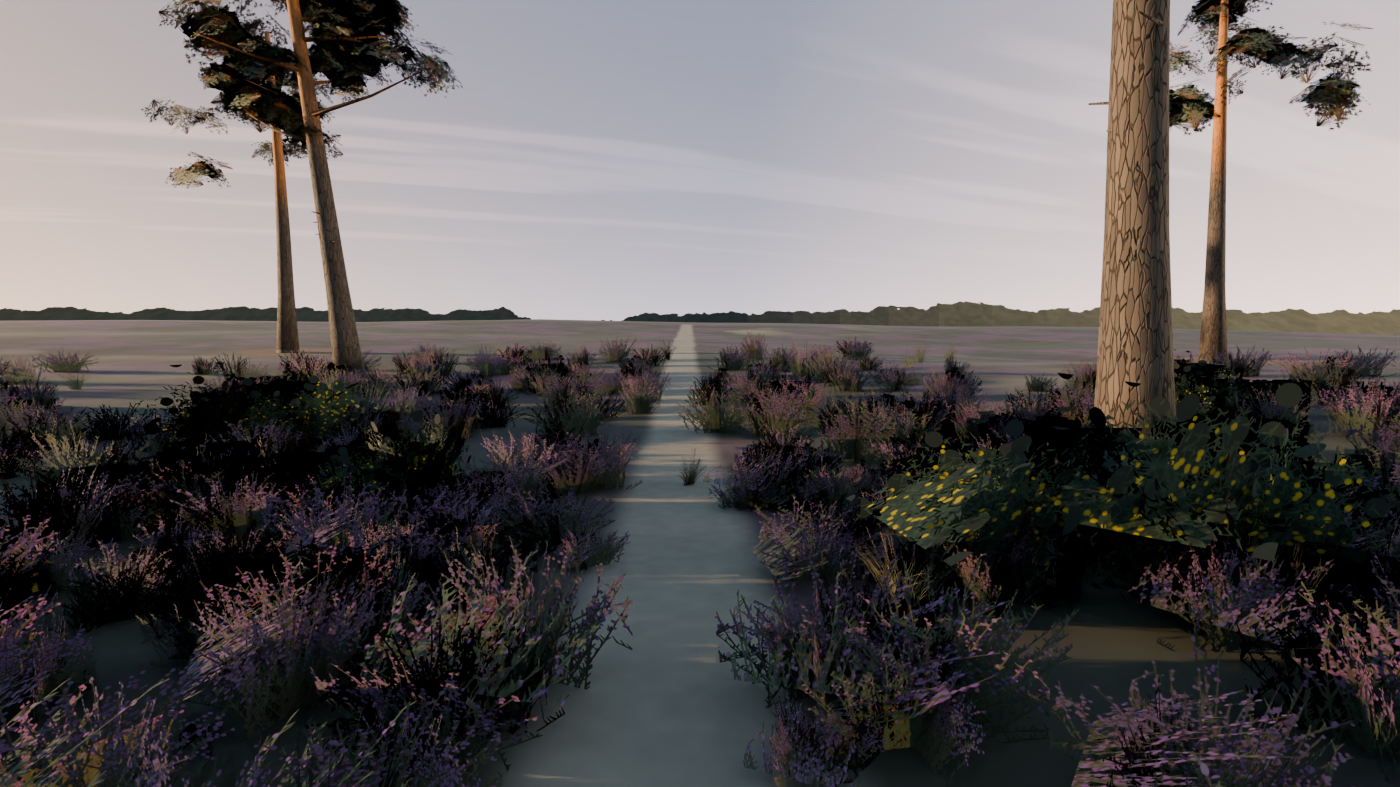
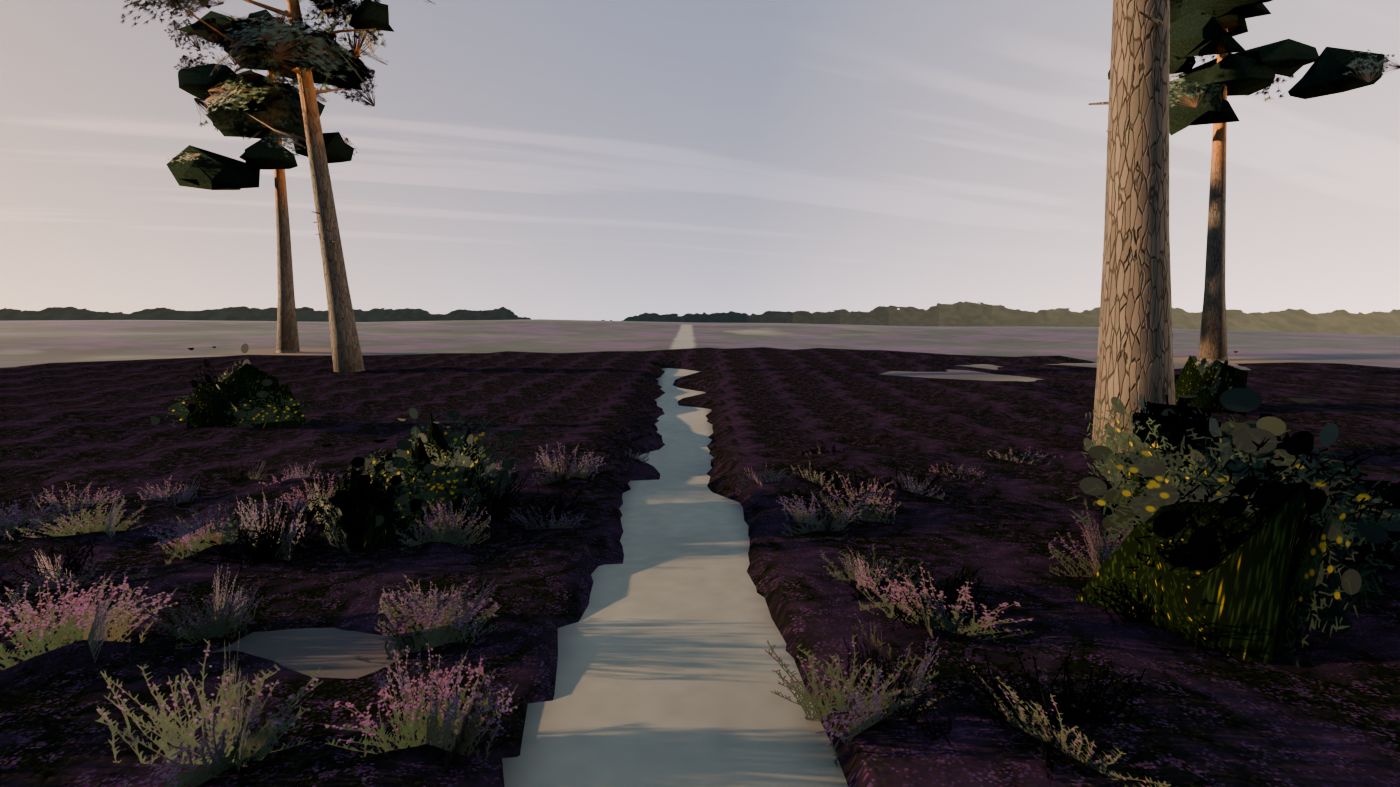
Put Horsell sand pits on a foliage diet for the Quest: opaque heath canopy and pine masses, fewer alpha cards
Heather and grass cards only within ~10 m (nothing tall right ahead of the feet), rising out of an opaque lumpy
heather canopy (MESH_HeathMound) that carries the heath out to 36 m; pine crowns get opaque needle masses
(veg.crown.pinemass, sway weights) with fewer, larger cards; gorse gets opaque cores (MESH_GorseMound); fewer
bracken clumps. Alpha card faces 13692 -> 3946; reader-view alpha card area 6.76 -> 2.09 screens, surround
22.1 -> 7.1. Export 48.5k -> 50.2k triangles.

diff --git a/blender/build_horsell_sandpits.py b/blender/build_horsell_sandpits.py
@@ -20,7 +20,11 @@ heather smoulders and a thin blue thread of smoke rises against the dawn. Behind
 across the common past an old pine and a few gorse bushes. No people (Ogilvy, the crowd and the carts are left out).
 
 Everything is procedural (no downloaded models, textures or HDRIs). Foliage is alpha-clipped cards painted in numpy
-(pine-needle sprays, ling heather in bloom, heath grass, gorse, bracken) with soft custom normals; the ground and sky
+(pine-needle sprays, ling heather in bloom, heath grass, gorse, bracken) with soft custom normals, kept lean for the
+Quest's tile GPU (alpha-tested overdraw is the cost): heather and grass cards only within ~10 m of the reader (and
+nothing tall in the first metres ahead), rising out of an opaque lumpy heather canopy that carries the heath out to
+36 m; pine crowns are opaque lumpy needle masses with fewer, larger cards round them (far pines: masses only, a few
+cards); gorse bushes have opaque cores; the ground and sky
 are painted in numpy into their own UV layouts (the ground in log-polar UVs, texel density highest at the reader's
 feet); the cylinder, bark and splintered wood are node materials baked to textures. Static meshes merge by material;
 glTF export with lights for Unity (helpers in wotw_kit.py).
@@ -35,6 +39,8 @@ Node names Unity relies on:
   Living scenes (docs/LIVING_SCENES.md), vertex colour R = sway weight (0 at roots/trunk, 1 at tips):
     veg.crown.pines (the pine crowns), veg.shrub.heather, veg.shrub.gorse, veg.grass.heath, veg.leaves.bracken
     sound.birds.0 / sound.birds.1 (in the pines ahead and behind), sound.wind-trees.0 (the pine group on the right)
+  veg.crown.pinemass: the opaque crown masses (sway weights like the crown cards)
+  MESH_HeathMound (the opaque heather canopy), MESH_GorseMound (gorse cores): static, opaque
   MESH_Mist: two soft alpha-blended mist sheets (in the pit and the hollow); no shadows, not lightmapped.
 
 Axes: metres, Blender +Z up, +Y north, +X east. Reader at the origin.
@@ -168,6 +174,8 @@ def ground_colour(x, y, fp):
     sand_new = sand_new * (1 - 0.35 * grit[..., None])
     gl = sstep(0.55, 0.8, fbm(x / 6 + 4, y / 6 + 1, 3, seed=26)) * (1 - hd)
     hv = sstep(0.1, 0.45, hd)
+    farh = sstep(8.0, 12.0, np.hypot(x, y))[..., None]                    # beyond the cards: the paint carries the heath
+    heath = heath * (1 - 0.3 * farh) + farh * 0.3 * np.stack([0.045 + 0.06 * bloom, 0.035 + 0.0 * bloom, 0.03 + 0.05 * bloom], -1) * (0.6 + 0.8 * n2[..., None])
     col = litter * (1 - hv[..., None]) + heath * hv[..., None]
     col = col * (1 - gl[..., None] * 0.7) + grass * (gl[..., None] * 0.7)
     bare = sstep(0.66, 0.78, fbm(x / 5 + 2, y / 5 + 8, 3, seed=27)) * (1 - hd) * 0.6
@@ -356,6 +364,75 @@ def bracken_atlas(N=512, seed=11):
 def atlas_uv(vi, inset=0.004):
     u0, v0 = (vi % 2) * 0.5, (vi // 2) * 0.5
     return (u0 + inset, v0 + inset, u0 + 0.5 - inset, v0 + 0.5 - inset)
+
+# ----------------------------------------------------------------------------- opaque foliage-mass textures (tileable, numpy)
+def _wrap_dot(img, p, r, col, alpha=1.0):
+    N = img.shape[0]
+    for ox in (-N, 0, N):
+        for oy in (-N, 0, N):
+            x, y = p[0] + ox, p[1] + oy
+            if -r - 2 < x < N + r + 2 and -r - 2 < y < N + r + 2: paint_dot(img, (x, y), r, col, alpha)
+
+def heath_mound_tex(N=512, seed=15):
+    """Ling seen from above and at a slant, as the low heather mounds beyond the cards read: dark shoots, brown wood,
+    and drifts of purple bloom; tiles (dots wrap round the edges)."""
+    rs = random.Random(seed); img = np.zeros((N, N, 4), np.float32); img[...] = (0.030, 0.034, 0.020, 1.0)
+    for k in range(2600):
+        g = rs.random(); o = rs.random()
+        _wrap_dot(img, (rs.uniform(0, N), rs.uniform(0, N)), rs.uniform(1.6, 3.6),
+                  (0.05 + 0.04 * o + 0.02 * g, 0.07 + 0.04 * g - 0.02 * o, 0.03 + 0.012 * g))
+    for k in range(900):
+        _wrap_dot(img, (rs.uniform(0, N), rs.uniform(0, N)), rs.uniform(1.0, 1.8), (0.10, 0.065, 0.042))
+    for k in range(700):                                                  # holes into the canopy's shade
+        _wrap_dot(img, (rs.uniform(0, N), rs.uniform(0, N)), rs.uniform(1.5, 3.5), (0.01, 0.01, 0.008))
+    img[..., :3] *= 0.3                                                   # a canopy full of its own shadow
+    for k in range(30):                                                   # drifts of bloom, readable from 10-30 m
+        cx, cy = rs.uniform(0, N), rs.uniform(0, N)
+        for i in range(8):
+            _wrap_dot(img, (cx + rs.gauss(0, 30), cy + rs.gauss(0, 30)), rs.uniform(18, 34), (0.05, 0.026, 0.045), 0.16)
+    for k in range(240):
+        cx, cy = rs.uniform(0, N), rs.uniform(0, N); b = rs.uniform(0.5, 0.9)
+        for i in range(rs.randint(6, 16)):
+            c = (0.11 * b + rs.uniform(-0.02, 0.02), 0.05 * b + rs.uniform(-0.01, 0.01), 0.10 * b + rs.uniform(-0.02, 0.02))
+            _wrap_dot(img, (cx + rs.gauss(0, 8), cy + rs.gauss(0, 8)), rs.uniform(1.4, 2.6), c)
+    img[..., 3] = 1.0
+    return img
+
+def gorse_mound_tex(N=256, seed=17):
+    """The dark inside of a gorse bush: spines in shade, a few flowers."""
+    rs = random.Random(seed); img = np.zeros((N, N, 4), np.float32); img[...] = (0.016, 0.026, 0.010, 1.0)
+    for k in range(2200):
+        g = rs.random()
+        _wrap_dot(img, (rs.uniform(0, N), rs.uniform(0, N)), rs.uniform(0.8, 1.8), (0.03 + 0.03 * g, 0.06 + 0.05 * g, 0.02 + 0.015 * g))
+    for k in range(110):
+        _wrap_dot(img, (rs.uniform(0, N), rs.uniform(0, N)), rs.uniform(1.0, 1.8), (0.62, 0.42, 0.02))
+    img[..., :3] *= 0.4
+    img[..., 3] = 1.0
+    return img
+
+def pinemass_tex(atlas, N=512, seed=19):
+    """The inside of a Scots-pine crown as the opaque masses carry it: a dense mat of blue-green needle tufts (stars of
+    short strokes in the needle cards' own colours) over deep shadow; tiles (strokes wrap round the edges)."""
+    rs = random.Random(seed); img = np.zeros((N, N, 4), np.float32)
+    solid = atlas[..., 3] > 0.6
+    cols = atlas[solid][:, :3]; lum = cols.sum(1)
+    greens = cols[(cols[:, 1] >= cols[:, 0]) & (lum > np.percentile(lum, 30))]          # needles, not the orange twigs
+    base = greens.mean(0) * 0.30
+    img[...] = (base[0], base[1], base[2], 1.0)
+    def stroke(p0, p1, w0, w1, c):
+        for ox in (-N, 0, N):
+            for oy in (-N, 0, N):
+                if -20 < p0[0] + ox < N + 20 and -20 < p0[1] + oy < N + 20:
+                    paint_stroke(img, (p0[0] + ox, p0[1] + oy), (p1[0] + ox, p1[1] + oy), w0, w1, c)
+    for k in range(1500):
+        cx, cy = rs.uniform(0, N), rs.uniform(0, N)
+        c = greens[rs.randrange(len(greens))] * rs.uniform(0.45, 1.0)
+        for i in range(rs.randint(6, 11)):
+            a = rs.uniform(0, TWO_PI); L = rs.uniform(5, 11)
+            stroke((cx, cy), (cx + math.cos(a) * L, cy + math.sin(a) * L), 1.6, 0.8, c)
+    img[..., :3] *= 0.6                                                   # the crown's inside is in its own shade
+    img[..., 3] = 1.0
+    return img
 
 def treeline_strip(W=4096, Hh=256, seed=13):
     """Distant woods all round the common (one band, wrapping once round the horizon, so it is seamless): a hazed
@@ -649,8 +726,17 @@ M_SPLIT = splinter_mat()
 
 # ----------------------------------------------------------------------------- foliage materials (numpy atlases)
 print("painting foliage ...")
-M_NEEDLES = K.card_material("M_PineNeedles", K.image_from("T_PineNeedles", needle_atlas()), rough=0.8)
+NEEDLE_RGBA = needle_atlas()
+M_NEEDLES = K.card_material("M_PineNeedles", K.image_from("T_PineNeedles", NEEDLE_RGBA), rough=0.8)
 M_HEATHER = K.card_material("M_Heather", K.image_from("T_Heather", heather_atlas()), rough=0.85)
+# opaque stand-ins (the foliage diet for the Quest: alpha-tested overdraw is what costs on its tile GPU):
+# lumpy pine-crown masses inside thinner card crowns, and low heather / gorse mounds where the cards stop
+M_PINEMASS = K.card_material("M_PineMass", K.image_from("T_PineMass", pinemass_tex(NEEDLE_RGBA)), rough=0.85, clip=False, double=False, repeat=True)
+M_HEATHMOUND = K.card_material("M_HeathMound", K.image_from("T_HeathMound", heath_mound_tex()), rough=0.9, clip=False, double=False, repeat=True)
+M_GORSEMOUND = K.card_material("M_GorseMound", K.image_from("T_GorseMound", gorse_mound_tex()), rough=0.85, clip=False, double=False, repeat=True)
+for _m in (M_PINEMASS, M_HEATHMOUND, M_GORSEMOUND):        # a mat of needles or shoots has no glossy skin (no grazing sheen
+    _b = next(n for n in _m.node_tree.nodes if n.type == 'BSDF_PRINCIPLED')   # toward the low sun)
+    _b.inputs["Specular IOR Level"].default_value = 0.0; _b.inputs["Roughness"].default_value = 1.0
 M_GRASS = K.card_material("M_HeathGrass", K.image_from("T_HeathGrass", grass_atlas()), rough=0.85)
 M_GORSE = K.card_material("M_Gorse", K.image_from("T_Gorse", gorse_atlas()), rough=0.8)
 M_BRACKEN = K.card_material("M_Bracken", K.image_from("T_Bracken", bracken_atlas()), rough=0.8)
@@ -690,6 +776,54 @@ class BarkMesh:
         return o
 BARK = BarkMesh()
 CROWNS = CardMesh("veg.crown.pines")
+
+class MassMesh(CardMesh):
+    """Opaque lumpy masses with shared vertices, custom (soft) normals, sway weights and tiled UVs: the crown masses
+    inside the pines' card crowns and the low heather / gorse mounds."""
+    def vert(self, p, n, w):
+        self.normals.append(Vector(n).normalized()); self.weights.append(w)
+        return self.bm.verts.new(p)
+    def face(self, vs, uvs):
+        try: f = self.bm.faces.new(vs)
+        except ValueError: return None
+        for lp, uv in zip(f.loops, uvs): lp[self.uvl].uv = uv
+        f.smooth = True
+        return f
+
+PINEMASS = MassMesh("veg.crown.pinemass")
+HEATHMOUND = MassMesh("HeathMound"); GORSEMOUND = MassMesh("GorseMound")
+
+def crown_nw(q, crown_c, crown_r):
+    """The soft card normal and sway weight of a crown point (as pad() gives its cards)."""
+    nn = (q - crown_c); nn.z *= 0.6
+    nn = (nn.normalized() * 0.75 + Vector((0, 0, 0.45))).normalized()
+    hd = Vector((q.x - crown_c.x, q.y - crown_c.y, 0)).length
+    return nn, max(0.15, min(1.0, 0.25 + 0.75 * hd / max(crown_r, 0.5)))
+
+def crown_mass(c, rx, ry, rz, yaw, crown_c, crown_r, rs, seg=8, lump=0.22, tile=1.1):
+    """A lumpy, flat-bottomed ellipsoid of needles (a branch's foliage plate seen from 10-80 m): 2 rings + 2 poles."""
+    ca, sa = math.cos(yaw), math.sin(yaw)
+    def P(lx, ly, lz): return c + Vector((lx * ca - ly * sa, lx * sa + ly * ca, lz))
+    rings = []; rows = (math.radians(-28), math.radians(32))
+    for e in rows:
+        ring = []
+        for i in range(seg):
+            a = TWO_PI * (i + 0.5 * (e > 0)) / seg
+            k = (1 + lump * rs.gauss(0, 1)) * (1.0 if i % 2 else 0.74)      # a star of tufts, not a smooth plate
+            q = P(math.cos(e) * math.cos(a) * rx * k, math.cos(e) * math.sin(a) * ry * k, math.sin(e) * rz * (0.6 if e < 0 else 1.0) * k)
+            nn, w = crown_nw(q, crown_c, crown_r)
+            ring.append(PINEMASS.vert(q, nn, w))
+        rings.append(ring)
+    bot = P(0, 0, -rz * 0.5); top = P(rs.gauss(0, rx * 0.15), rs.gauss(0, ry * 0.15), rz * (1 + lump * abs(rs.gauss(0, 1))))
+    vb = PINEMASS.vert(bot, *crown_nw(bot, crown_c, crown_r)); vt = PINEMASS.vert(top, *crown_nw(top, crown_c, crown_r))
+    ku = max(1, round(TWO_PI * max(rx, ry) / tile)); kv = 1.0 / tile; v0 = rs.random()
+    def uv(i, row): return (ku * i / seg + v0, v0 + [0.0, rz * 1.1 * kv][row])
+    for i in range(seg):
+        j = (i + 1) % seg
+        PINEMASS.face([vb, rings[0][j], rings[0][i]], [(ku * (i + 0.5) / seg + v0, v0 - 0.4 * rz * kv), uv(i + 1, 0), uv(i, 0)])
+        PINEMASS.face([rings[0][i], rings[0][j], rings[1][i]], [uv(i, 0), uv(i + 1, 0), uv(i + 0.5, 1)])
+        PINEMASS.face([rings[0][j], rings[1][j], rings[1][i]], [uv(i + 1, 0), uv(i + 1.5, 1), uv(i + 0.5, 1)])
+        PINEMASS.face([rings[1][i], rings[1][j], vt], [uv(i + 0.5, 1), uv(i + 1.5, 1), (ku * (i + 1) / seg + v0, v0 + 1.9 * rz * kv)])
 
 def pad(cm, centre, radius, crown_c, crown_r, rs, ncards, flat=0.55, lean=None):
     """A clump of needle sprays: cards facing outward and up from the pad centre, normals from the crown's centre."""
@@ -757,24 +891,36 @@ def pine(x, y, H, CRr, lod, seed):
         b2 = b0 + d * reach + Vector((0, 0, reach * rise + rs.uniform(-0.3, 0.4)))
         if lod >= 1:
             BARK.tube([tuple(b0), tuple(b1), tuple(b2)], [0.07 + 0.03 * (1 - t), 0.045, 0.018], 5 if lod == 2 else 4, [t, t, t])
-        # pads along the outer part of the branch, the biggest at the tip
-        npads = {2: 4, 1: 4, 0: 2}[lod]
+        # each branch's foliage plate: an opaque lumpy mass (the dense inside), ragged at the edge with a few large
+        # needle cards (near pines more, mid pines fewer, far pines none: their outline against the sky is the mass's)
+        mc = b0 + (b2 - b0) * (0.92 if lod else 0.8) + Vector((0, 0, 0.3))
+        mr = CRr * rs.uniform(0.30, 0.38) * {2: 0.3, 1: 0.36, 0: 0.95}[lod]
+        crown_mass(mc, mr * 1.2, mr * 0.95, mr * (0.6 if lod == 0 else 0.8), a, crown_c, CRr, rs)
+        npads = {2: 3, 1: 2, 0: 1}[lod]
         for j in range(npads):
-            u = 1.0 - j * 0.24
+            u = 1.0 - j * 0.3
             pc = b0 + (b2 - b0) * u + Vector((rs.gauss(0, 0.25), rs.gauss(0, 0.25), 0.3 + rs.uniform(-0.35, 0.5)))
-            pr = CRr * rs.uniform(0.30, 0.40) * (1.0 - 0.15 * j)
-            pad(CROWNS, pc, pr, crown_c, CRr, rs, {2: 12, 1: 10, 0: 8}[lod], flat=0.5, lean=d * 0.3)
+            pr = CRr * rs.uniform(0.30, 0.40) * (1.0 - 0.15 * j) * {2: 1.25, 1: 1.35, 0: 1.1}[lod]
+            pad(CROWNS, pc, pr, crown_c, CRr, rs, {2: 7, 1: 6, 0: 3}[lod], flat=0.5, lean=d * 0.3)
     # foliage through the crown's volume, so it reads as one irregular mass with holes rather than separate tufts
-    nfill = {2: 12, 1: 10, 0: 6}[lod]
     zc0, zc1 = z0 + H * (crown_base + 0.12), z0 + H * 0.93
+    for k in range({2: 0, 1: 2, 0: 4}[lod]):
+        a = rs.uniform(0, TWO_PI); rr = CRr * 0.4 * math.sqrt(rs.random())
+        zz = zc0 + (zc1 - zc0) * rs.random() ** 0.8
+        taper = 1.0 - 0.5 * ((zz - zc0) / max(zc1 - zc0, 0.1)) ** 2
+        pc = Vector((x + math.cos(a) * rr * taper, y + math.sin(a) * rr * taper, zz)) + lean * (zz - z0)
+        r_ = CRr * rs.uniform(0.28, 0.36) * (0.45 if lod else 1.0)
+        crown_mass(pc, r_ * (1.1 if lod == 0 else 0.8), r_ * (1.0 if lod == 0 else 0.75), r_ * 0.6, rs.uniform(0, TWO_PI), crown_c, CRr, rs)
+    nfill = {2: 7, 1: 3, 0: 0}[lod]
     for k in range(nfill):
         a = rs.uniform(0, TWO_PI); rr = CRr * 0.62 * math.sqrt(rs.random())
         zz = zc0 + (zc1 - zc0) * rs.random() ** 0.8
         taper = 1.0 - 0.5 * ((zz - zc0) / max(zc1 - zc0, 0.1)) ** 2
         pc = Vector((x + math.cos(a) * rr * taper, y + math.sin(a) * rr * taper, zz)) + lean * (zz - z0)
-        pad(CROWNS, pc, CRr * rs.uniform(0.26, 0.34), crown_c, CRr, rs, {2: 9, 1: 8, 0: 6}[lod], flat=0.55)
+        pad(CROWNS, pc, CRr * rs.uniform(0.30, 0.40), crown_c, CRr, rs, {2: 6, 1: 5}[lod], flat=0.55)
     # the leader and the topmost cloud
-    pad(CROWNS, ctop + Vector((0, 0, 0.1)), CRr * 0.33, crown_c, CRr, rs, {2: 12, 1: 9, 0: 7}[lod], flat=0.6)
+    crown_mass(ctop + Vector((0, 0, -0.1)), CRr * 0.28, CRr * 0.24, CRr * 0.2, rs.uniform(0, TWO_PI), crown_c, CRr, rs)
+    pad(CROWNS, ctop + Vector((0, 0, 0.1)), CRr * 0.36, crown_c, CRr, rs, {2: 8, 1: 6, 0: 4}[lod], flat=0.6)
 
 for k, (x, y, H, CRr, lod) in enumerate(PINES):
     pine(x, y, H, CRr * 1.2, lod, 100 + k)
@@ -828,6 +974,7 @@ splinters()
 
 BARK.finish("Bark", M_BARK)
 CROWN_OBJ = CROWNS.finish(M_NEEDLES)
+PINEMASS.finish(M_PINEMASS)
 # the fallen crown pieces must not sway: zero their weight (they lie on the ground)
 cw = CROWN_OBJ.data.color_attributes["Col"].data
 for i, v in enumerate(CROWN_OBJ.data.vertices):
@@ -875,42 +1022,124 @@ def look_weight(x, y):
     a = (a + 180) % 360 - 180
     return 1.0 if abs(a) < 110 else 0.55
 
-# poisson-ish scatter: jittered grid, density from the masks, bigger and sparser with distance
-counts = {"heather": 0, "grass": 0}
-for ring_r0, ring_r1, cell, wmin, wmax, ncards in ((0.7, 9.0, 0.55, 0.55, 0.95, 4), (9.0, 22.0, 1.12, 0.8, 1.3, 3), (22.0, 32.0, 1.9, 1.0, 1.6, 3)):
+def mound(mm, x, y, rx, ry, h, rs, seg=8, lump=0.2, tile=1.4):
+    """A low opaque lumpy dome sitting in the ground (its foot ring sunk 8 cm): a heather or gorse bush's mass."""
+    yaw = rs.uniform(0, TWO_PI); ca, sa = math.cos(yaw), math.sin(yaw)
+    ox, oy = rs.uniform(0, 50), rs.uniform(0, 50)
+    def uv(q): return ((q.x + 0.35 * q.z) / tile + ox, (q.y + 0.35 * q.z) / tile + oy)
+    z0 = float(gz(x, y)); rings = []
+    for (rf, hf, off) in ((1.0, 0.0, 0.0), (0.66, 0.62, 0.5)):
+        ring = []
+        for i in range(seg):
+            a = TWO_PI * (i + off) / seg; k = (1 + lump * rs.gauss(0, 1)) * (1.0 if (i % 2 or hf) else 0.8)
+            lx, ly = math.cos(a) * rx * rf * k, math.sin(a) * ry * rf * k
+            px, py = x + lx * ca - ly * sa, y + lx * sa + ly * ca
+            pz = (float(gz(px, py)) - 0.08) if hf == 0 else z0 + h * (0.42 + 0.5 * (i % 2)) * (1 + lump * rs.gauss(0, 1))
+            nn = Vector((lx * ca - ly * sa, lx * sa + ly * ca, 0)).normalized() * (0.75 if hf == 0 else 0.55) + Vector((0, 0, 0.6 if hf == 0 else 0.9))
+            ring.append((mm.vert(Vector((px, py, pz)), nn, 0.0), Vector((px, py, pz))))
+        rings.append(ring)
+    tq = Vector((x + rs.gauss(0, rx * 0.2), y + rs.gauss(0, ry * 0.2), z0 + h * (0.8 + lump * abs(rs.gauss(0, 0.8)))))
+    vt = mm.vert(tq, (0, 0, 1), 0.0)
+    for i in range(seg):
+        j = (i + 1) % seg
+        (a0, qa0), (a1, qa1) = rings[0][i], rings[0][j]
+        (c0, qc0), (c1, qc1) = rings[1][i], rings[1][j]
+        mm.face([a0, a1, c0], [uv(qa0), uv(qa1), uv(qc0)])
+        mm.face([a1, c1, c0], [uv(qa1), uv(qc1), uv(qc0)])
+        mm.face([c0, c1, vt], [uv(qc0), uv(qc1), uv(tq)])
+
+# poisson-ish scatter: jittered grid, density from the masks. Cards only out to ~10 m (the reader's near field, where
+# the heather's wiry outline matters), each clump with an opaque lumpy core so three cards read as a full bush; beyond
+# that low opaque heather mounds over the heath-painted ground, bigger and sparser with distance. Nothing tall right
+# in front of the reader's feet.
+counts = {"heather": 0, "grass": 0, "mounds": 0}
+NEAR_CARDS = 10.0
+for ring_r0, ring_r1, cell in ((0.7, NEAR_CARDS + 1.5, 0.8), (NEAR_CARDS - 0.5, 22.0, 1.8), (22.0, 34.0, 2.6)):
     n = int(2 * ring_r1 / cell)
     for i in range(n):
         for j in range(n):
             x = -ring_r1 + (i + rs.random()) * cell; y = -ring_r1 + (j + rs.random()) * cell
             r = math.hypot(x, y)
             if r < ring_r0 or r >= ring_r1: continue
+            near = ring_r0 < 1.0
+            # the card / mound hand-over: dithered over 9-11.5 m
+            if near and r > NEAR_CARDS - 1.0 and rs.random() < (r - NEAR_CARDS + 1.0) / 2.5: continue
+            if not near and ring_r0 < NEAR_CARDS and r < NEAR_CARDS + 1.5 and rs.random() > (r - NEAR_CARDS + 1.0) / 2.5: continue
             if rs.random() > look_weight(x, y): continue
             hd = float(heather_density(x, y))
             if math.hypot(x - CR[0], y - CR[1]) < RC + 1.5: continue
             if any(math.hypot(x - px, y - py) < 0.8 for px, py, _ in PINES_XYR): continue
-            if rs.random() < hd * 0.95:
-                w = rs.uniform(wmin, wmax) * (0.7 + 0.5 * hd)
-                clump(HEATHER, x, y, w, w * rs.uniform(0.55, 0.8), ncards, rs, [0, 1, 2, 3] if hd > 0.5 else [1, 3], top=(r < 9))
-                counts["heather"] += 1
-            elif rs.random() < 0.35 * (1 - float(sand_cover(x, y))) * (1 - float(track_mask(x, y)) * 0.8):
-                g = rs.uniform(0.35, 0.6) * (1 + r / 40)
+            ahead_ = abs((math.degrees(math.atan2(x, y)) - LOOK_AZ + 180) % 360 - 180) < 75
+            if rs.random() < (hd * 0.95 if near else min(1.0, hd * 1.25)):
+                if near:
+                    w = rs.uniform(0.52, 0.85) * (0.7 + 0.5 * hd)
+                    hh = w * rs.uniform(0.5, 0.72)
+                    if r < 2.4 and ahead_: hh *= 0.45 + 0.2 * (r / 2.4)     # low right at the feet, ahead
+                    elif r < 1.5: hh *= 0.6
+                    if not (r < 1.6 and ahead_):
+                        clump(HEATHER, x, y, w, hh, 3, rs, [0, 1, 2, 3] if hd > 0.5 else [1, 3], tilt=0.45)
+                    counts["heather"] += 1
+                else:
+                    continue                                       # the canopy carries the heath out here
+                    w = cell * rs.uniform(0.45, 0.65) * (0.7 + 0.4 * hd)
+                    mound(HEATHMOUND, x, y, w * rs.uniform(0.95, 1.3), w * rs.uniform(0.75, 1.0), min(0.8, w * rs.uniform(0.45, 0.6)), rs,
+                          seg=8 if r < 24 else 6)
+                    counts["mounds"] += 1
+            elif near and r > 1.2 and rs.random() < 0.35 * (1 - float(sand_cover(x, y))) * (1 - float(track_mask(x, y)) * 0.8):
+                g = rs.uniform(0.35, 0.6) * (1 + r / 40) * (0.6 if (r < 2.4 and ahead_) else 1.0)
                 clump(GRASS, x, y, g * 0.9, g, 2, rs, [0, 1, 2, 3], sink=0.02, tilt=0.5)
                 counts["grass"] += 1
 print("heather clumps", counts)
-# gorse: a few bushes by the tracks and on the knoll behind
+
+def heath_canopy(mm, r0=1.0, r1=36.0, NS=144, tile=1.4):
+    """The heather as one continuous opaque canopy (the bed the near cards rise out of; beyond them, the heath itself): a sheet 0.15-0.5 m over the ground where the
+    heather grows (lumpy with fine noise, so its far edge is ragged against the sand), dipping under the ground where
+    it doesn't (tracks, sand, the pit) and at its inner and outer edges."""
+    rs_ = [r0]
+    while rs_[-1] < r1: rs_.append(rs_[-1] + 0.35 + rs_[-1] * 0.03)
+    th = np.arange(NS) / NS * TWO_PI
+    grid = []
+    for k, r in enumerate(rs_):
+        jit = np.array([math.sin(i * 2.7 + k * 1.3) for i in range(NS)]) * (TWO_PI * r / NS) * 0.25
+        x = r * np.cos(th) + jit * np.sin(th); y = r * np.sin(th) - jit * np.cos(th)
+        hd = heather_density(x, y)
+        fine = fbm(x / 0.9 + 3, y / 0.9 + 1, 2, seed=31); coarse = fbm(x / 3.0, y / 3.0, 2, seed=32)
+        h = (0.14 + 0.24 * coarse + 0.16 * fine) * sstep(0.12, 0.6, hd) * (1 - 0.85 * sand_cover(x, y))
+        h = h * (0.45 + 0.55 * sstep(6.0, 10.0, r)) + 0.10 * (fine - 0.5) * sstep(0.12, 0.6, hd)
+        h = h * sstep(r0, r0 + 1.2, r) * sstep(r1, r1 - 3.0, r) - 0.10
+        z = gz(x, y) + h
+        grid.append([mm.vert(Vector((float(a), float(b), float(c))), (0, 0, 1), 0.0) for a, b, c in zip(x, y, z)])
+    verts = [v for row in grid for v in row]
+    for k in range(len(rs_) - 1):
+        for i in range(NS):
+            j = (i + 1) % NS
+            q = [grid[k][i], grid[k + 1][i], grid[k + 1][j], grid[k][j]]
+            mm.face(q, [((v.co.x + 0.35 * v.co.z) / tile, (v.co.y + 0.35 * v.co.z) / tile) for v in q])
+    # soft normals from the sheet itself, bent up (a canopy lit from above, not a hard surface)
+    mm.bm.normal_update()
+    base = len(mm.normals) - len(verts)
+    for n_, v in enumerate(verts):
+        mm.normals[base + n_] = (v.normal * 0.6 + Vector((0, 0, 0.5))).normalized()
+heath_canopy(HEATHMOUND)
+# gorse: a few bushes by the tracks and on the knoll behind; an opaque dark core, cards for the spiny outline (the far
+# bushes: two cards over a bigger core)
 GORSE_AT = [(-3.2, -4.5, 1.5), (2.6, -6.5, 1.2), (5.0, 3.2, 1.0), (-4.5, 3.0, 0.9), (8.0, -12.0, 1.6), (-10.0, -14.0, 1.4),
             (12.5, 9.0, 1.3), (-14.0, -2.0, 1.1), (6.5, 18.0, 1.2), (-2.0, 24.0, 1.0)]
 for (x, y, s) in GORSE_AT:
+    far_ = math.hypot(x, y) > NEAR_CARDS
     for k in range(3):
         cx, cy = x + rs.gauss(0, s * 0.35), y + rs.gauss(0, s * 0.35)
-        clump(GORSE, cx, cy, s * rs.uniform(0.9, 1.3), s * rs.uniform(0.8, 1.1), 5, rs, [0, 1, 2, 3], sink=0.1, tilt=0.45, top=True)
-# bracken: drifts in the damp hollow ahead and under the pines on the right
-for k in range(260):
-    if k < 180: x, y = 6 + rs.gauss(0, 9), 50 + rs.gauss(0, 6)
+        w, hh = s * rs.uniform(0.9, 1.3), s * rs.uniform(0.8, 1.1)
+        mound(GORSEMOUND, cx, cy, w * (0.42 if far_ else 0.32), w * (0.36 if far_ else 0.28), hh * (0.7 if far_ else 0.55), rs, seg=7, tile=0.9, lump=0.3)
+        clump(GORSE, cx, cy, w, hh, 2 if far_ else 4, rs, [0, 1, 2, 3], sink=0.1, tilt=0.45)
+# bracken: drifts in the damp hollow ahead and under the pines on the right (40-55 m off: fewer, larger clumps)
+for k in range(150):
+    if k < 100: x, y = 6 + rs.gauss(0, 9), 50 + rs.gauss(0, 6)
     else: x, y = 28 + rs.gauss(0, 6), 8 + rs.gauss(0, 7)
     if math.hypot(x, y) > NEAR_R - 2: continue
-    clump(BRACKEN, x, y, rs.uniform(0.7, 1.1), rs.uniform(0.6, 0.95), 2, rs, [0, 1, 2, 3], sink=0.05, tilt=0.8)
+    clump(BRACKEN, x, y, rs.uniform(0.85, 1.3), rs.uniform(0.7, 1.05), 2, rs, [0, 1, 2, 3], sink=0.05, tilt=0.8)
 HEATHER.finish(M_HEATHER); GRASS.finish(M_GRASS); GORSE.finish(M_GORSE); BRACKEN.finish(M_BRACKEN)
+HEATHMOUND.finish(M_HEATHMOUND, weighted=False); GORSEMOUND.finish(M_GORSEMOUND, weighted=False)
 
 # ----------------------------------------------------------------------------- distant treeline (backdrop cards)
 def treeline():
@@ -1040,6 +1269,7 @@ if args.bake or args.export:
     K.bake_and_export(scene, "horsell_sandpits.gltf", size_for,
                       keep_names={"M_SkyDome": "SkyDome", "M_FarLand": "far.land", "M_DistantTrees": "far.treeline", "M_Ground": "MESH_Ground",
                                   "M_PineNeedles": "veg.crown.pines", "M_Heather": "veg.shrub.heather", "M_HeathGrass": "veg.grass.heath",
-                                  "M_Gorse": "veg.shrub.gorse", "M_Bracken": "veg.leaves.bracken", "M_Mist": "MESH_Mist"},
+                                  "M_Gorse": "veg.shrub.gorse", "M_Bracken": "veg.leaves.bracken", "M_Mist": "MESH_Mist",
+                                  "M_PineMass": "veg.crown.pinemass", "M_HeathMound": "MESH_HeathMound", "M_GorseMound": "MESH_GorseMound"},
                       cams=cams, blend_name="horsell_sandpits_baked.blend")
 print("DONE")
